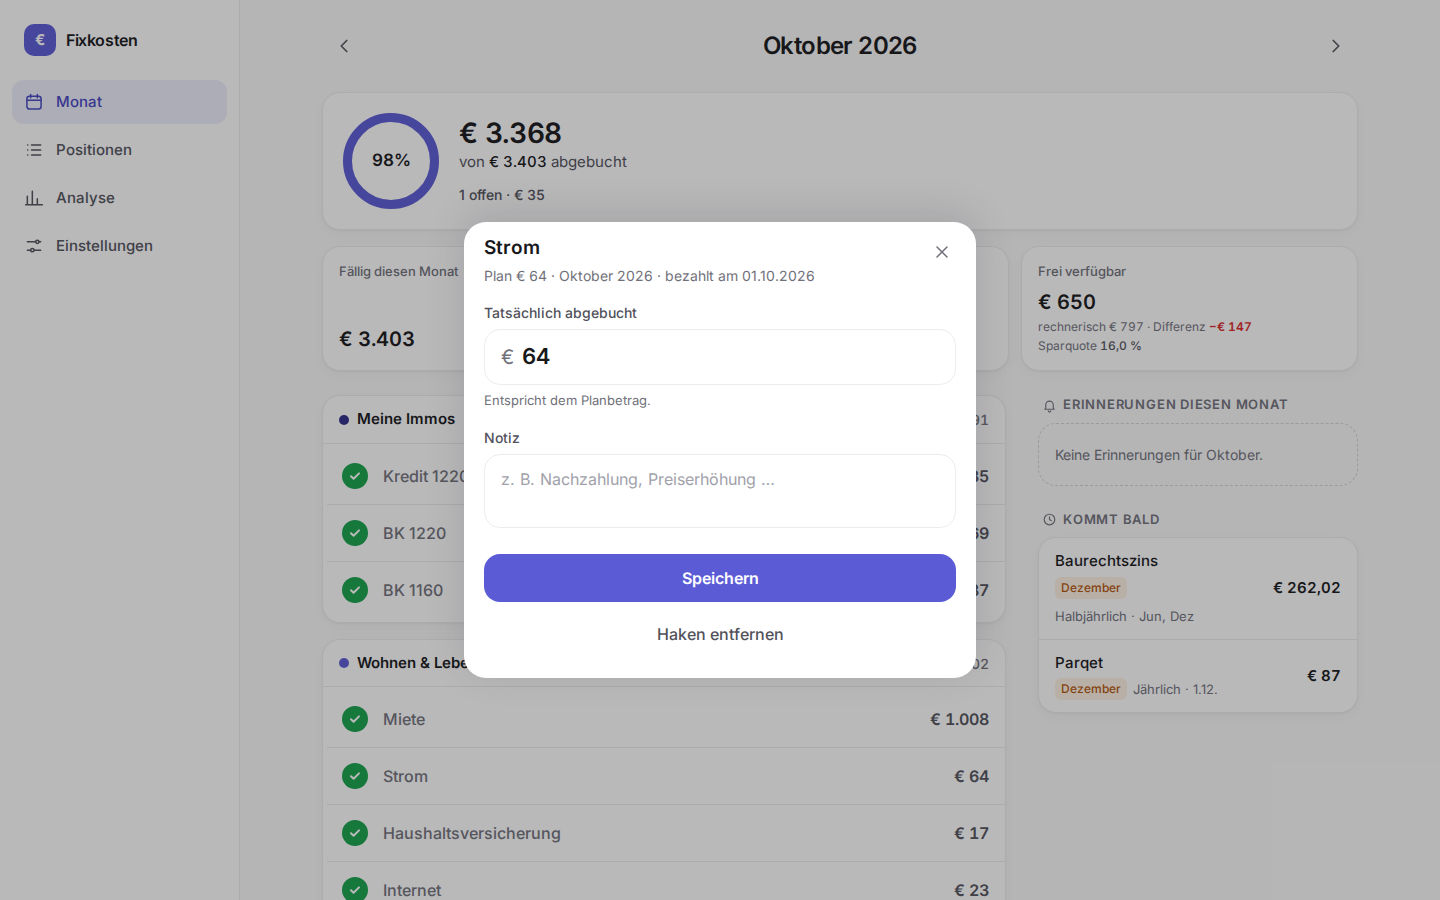
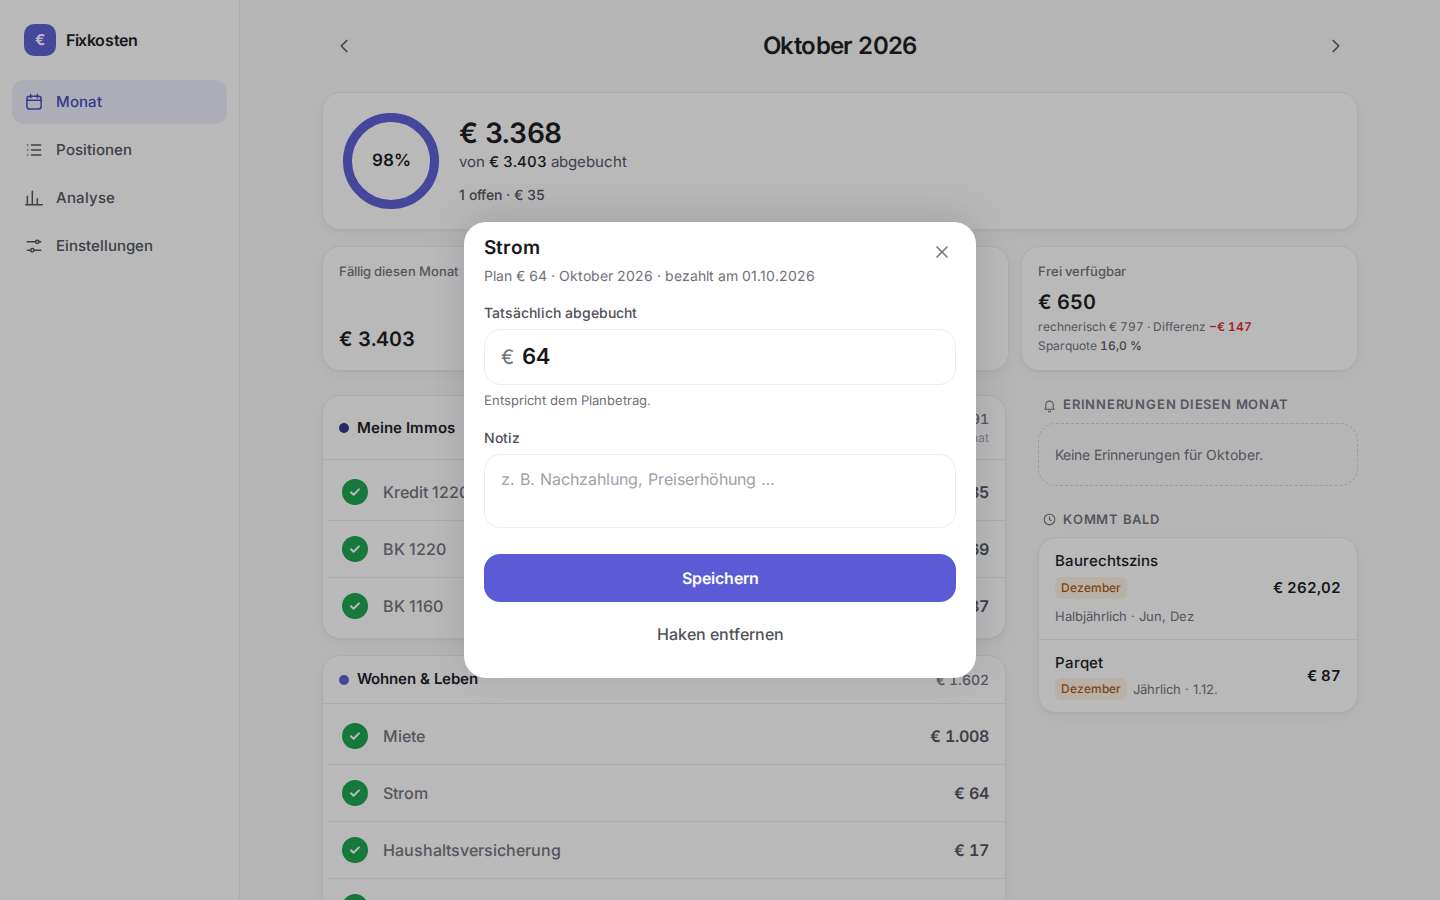
Monat: Kategorie zeigt Ø umgelegt, KPI heißt "Ø pro Monat"
Kategorie-Kopf zeigt neben dem fälligen Betrag den umgelegten
Monatswert, wenn er abweicht (z. B. Meine Immos € 991 · Ø € 1.034,67),
damit nicht fällige Positionen wie Baurechtszins sichtbar dazugehören.

Claude-Session: https://claude.ai/code/session_01EcymVounytFwfZHeSuDa7w

diff --git a/src/screens/MonthScreen.tsx b/src/screens/MonthScreen.tsx
@@ -19,6 +19,7 @@ import {
   remindersForPeriod,
   reserveNeeded,
   savingsRate,
+  sumMonthlyEquivalent,
   trueMonthlyBurden,
   upcomingDue,
   type CategoryGroup,
@@ -78,9 +79,9 @@ export function MonthScreen({ ds, period, onPeriodChange }: Props) {
         <div className="grid grid-cols-2 gap-2 sm:grid-cols-3 lg:gap-3">
           <KpiTile label="Fällig diesen Monat" value={formatEUR(plannedForPeriod(ds, period))} />
           <KpiTile
-            label="Echte Monatsbelastung"
+            label="Ø pro Monat"
             value={formatEUR(trueMonthlyBurden(ds, period))}
-            hint={`inkl. ${formatEUR(reserveNeeded(ds, period))} Rücklage`}
+            hint={`Jahreskosten verteilt · inkl. ${formatEUR(reserveNeeded(ds, period))} Rücklage`}
           />
           <FreeTile
             ref={closeTile}
@@ -105,6 +106,7 @@ export function MonthScreen({ ds, period, onPeriodChange }: Props) {
               <GroupCard
                 key={group.category.id}
                 group={group}
+                spread={sumMonthlyEquivalent(ds, period, { categoryId: group.category.id })}
                 onToggle={toggle}
                 onOpen={(item) => setOpenPositionId(item.position.id)}
               />
@@ -306,21 +308,35 @@ const FreeTile = forwardRef<HTMLButtonElement, FreeTileProps>(function FreeTile(
 
 function GroupCard({
   group,
+  spread,
   onToggle,
   onOpen,
 }: {
   group: CategoryGroup;
+  /** monthly equivalent of the whole category, incl. positions not due this month */
+  spread: number;
   onToggle: (item: DueItem) => void;
   onOpen: (item: DueItem) => void;
 }) {
   const savings = group.category.kind === 'savings';
+  const showSpread = Math.round(spread * 100) !== Math.round(group.planned * 100);
   return (
     <section className="card overflow-hidden" aria-label={group.category.name} data-testid="category-group">
       <header className="flex items-center gap-2 border-b border-line px-4 py-3">
         <span className="h-2.5 w-2.5 rounded-full" style={{ background: group.category.color }} aria-hidden="true" />
         <h2 className="flex-1 text-[15px] font-semibold text-ink">{group.category.name}</h2>
         {savings && <Badge>Sparen · keine Fixkosten</Badge>}
-        <span className="num text-[14px] font-medium text-ink-mute">{formatEUR(group.planned)}</span>
+        <span
+          className="flex flex-col items-end"
+          aria-label={`fällig ${formatEUR(group.planned)}${showSpread ? `, umgelegt ${formatEUR(spread)} pro Monat` : ''}`}
+        >
+          <span className="num text-[14px] font-medium text-ink-mute">{formatEUR(group.planned)}</span>
+          {showSpread && (
+            <span className="num whitespace-nowrap text-[12px] text-ink-faint" data-testid="group-spread">
+              Ø {formatEUR(spread)} / Monat
+            </span>
+          )}
+        </span>
       </header>
       <ul className="divide-y divide-line py-1 pl-1">
         {group.items.map((item) => (

diff --git a/e2e/month.spec.ts b/e2e/month.spec.ts
@@ -13,8 +13,8 @@ test.describe('Monat-Screen (Seed Oktober 2026)', () => {
 
   test('KPI tiles', async ({ app }) => {
     await expect(app.getByText('Fällig diesen Monat').locator('..')).toContainText(eur('€ 3.403'));
-    await expect(app.getByText('Echte Monatsbelastung').locator('..')).toContainText(eur('€ 2.952,17'));
-    await expect(app.getByText('Echte Monatsbelastung').locator('..')).toContainText(eur('inkl. € 288,17 Rücklage'));
+    await expect(app.getByText('Ø pro Monat').locator('..')).toContainText(eur('€ 2.952,17'));
+    await expect(app.getByText('Ø pro Monat').locator('..')).toContainText(eur('Jahreskosten verteilt · inkl. € 288,17 Rücklage'));
     await expect(app.getByTestId('free-tile')).toContainText('Gehalt eintragen');
   });
 
@@ -106,6 +106,9 @@ test.describe('Monat-Screen (Seed Oktober 2026)', () => {
     const immos = app.getByRole('region', { name: 'Meine Immos' });
     await expect(immos.getByTestId('position-row')).toHaveCount(3);
     await expect(immos).toContainText(eur('€ 991'));
+    // Baurechtszins belongs to the category even when not due: visible in the spread amount
+    await expect(immos.getByTestId('group-spread')).toHaveText(eur('Ø € 1.034,67 / Monat'));
+    await expect(app.getByRole('region', { name: 'Wohnen & Leben' }).getByTestId('group-spread')).toHaveCount(0);
     await expect(row(app, 'pos-baurechtszins')).toHaveCount(0);
     await expect(app.getByRole('region', { name: 'Kommt bald' })).toContainText('Baurechtszins');
 
